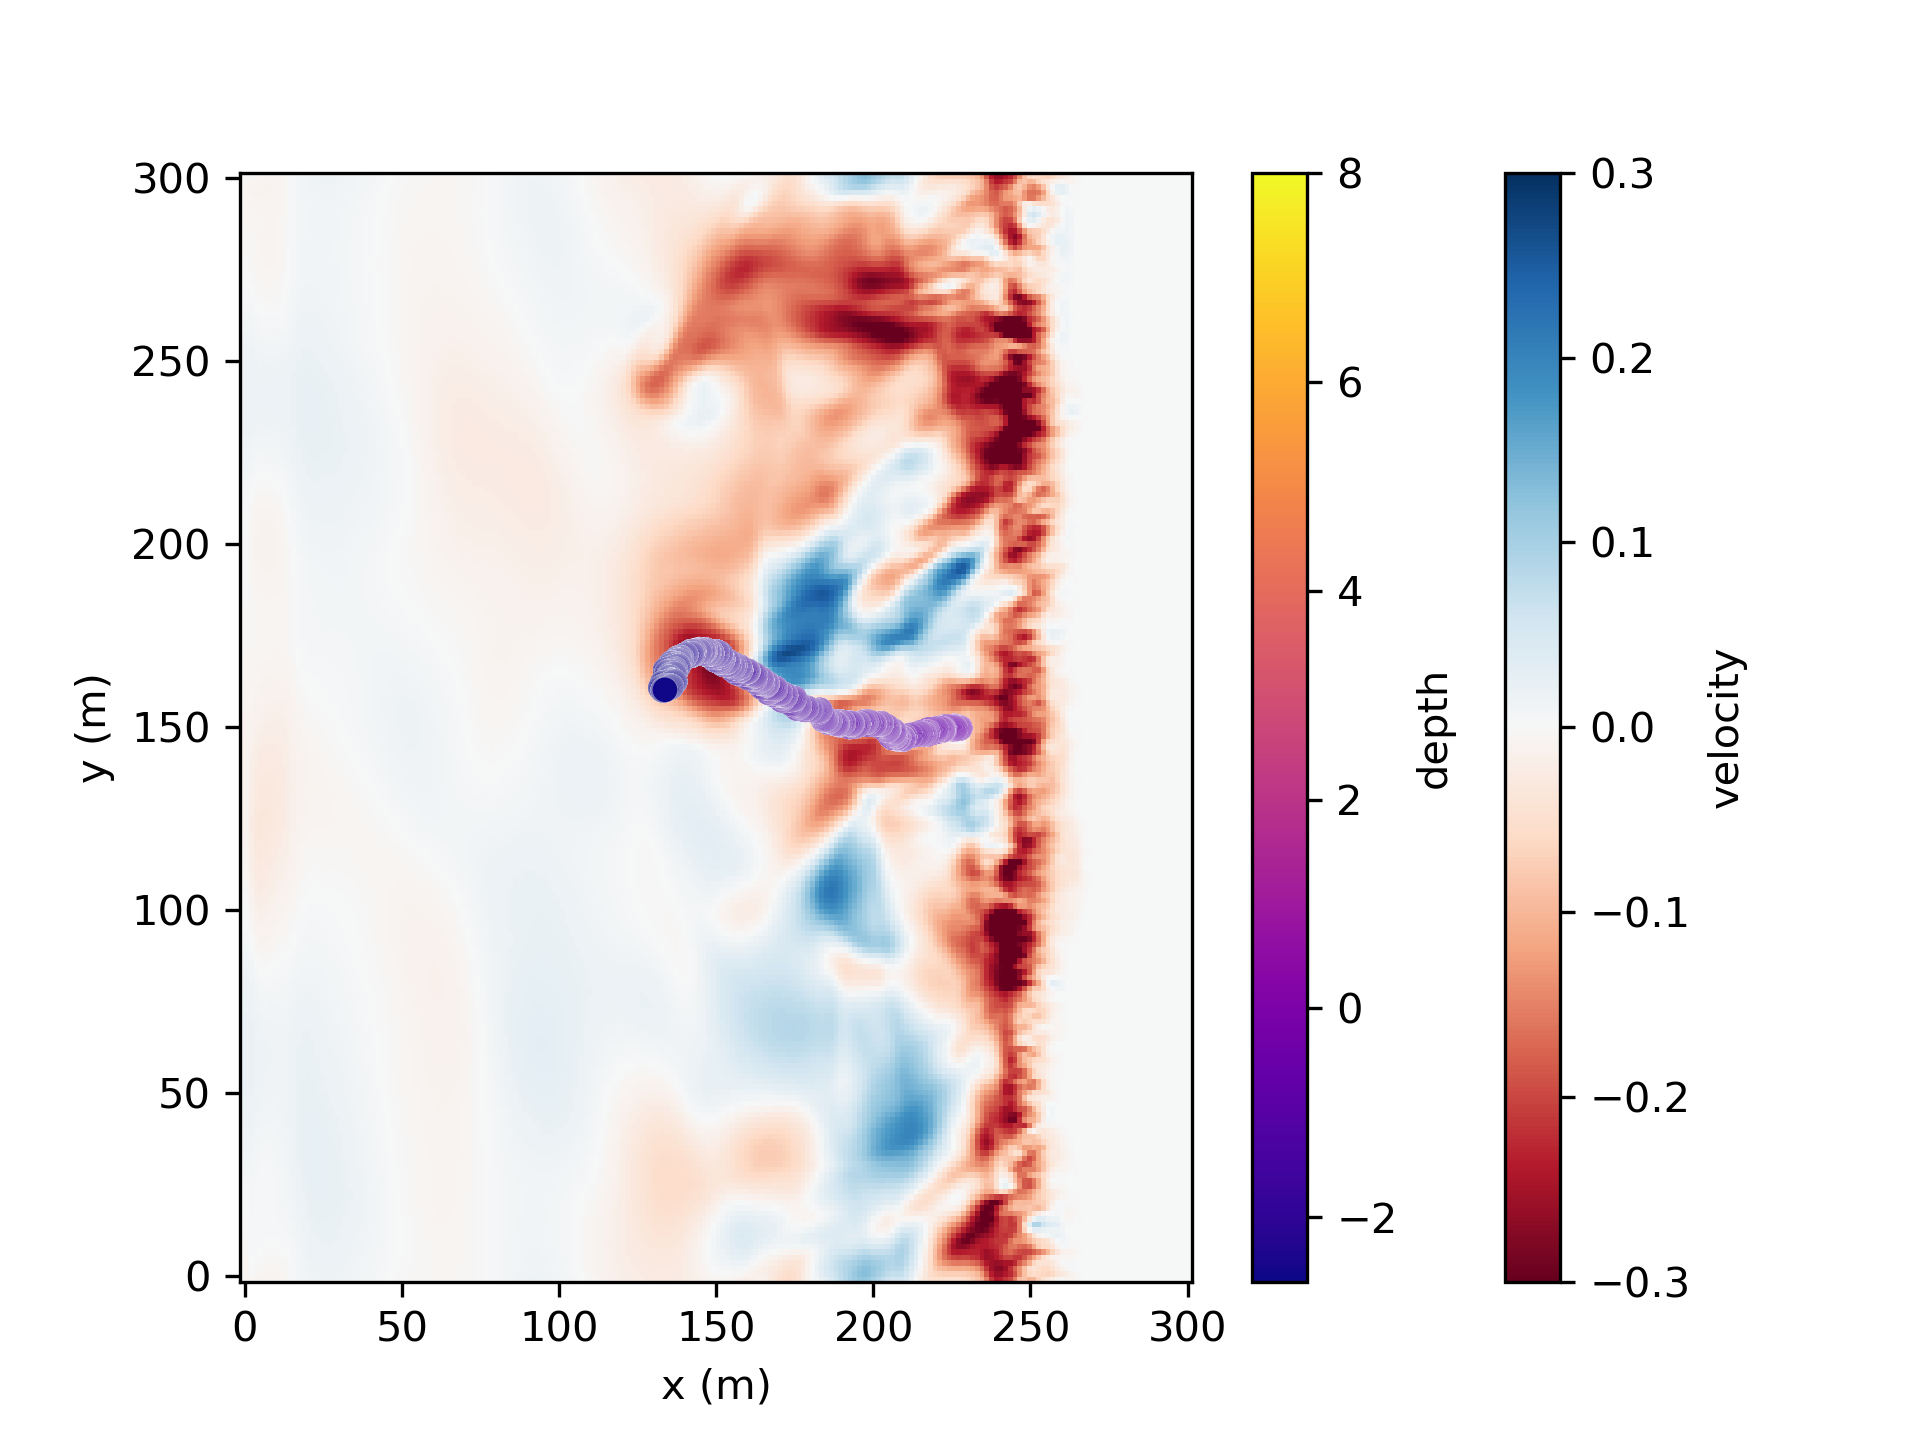
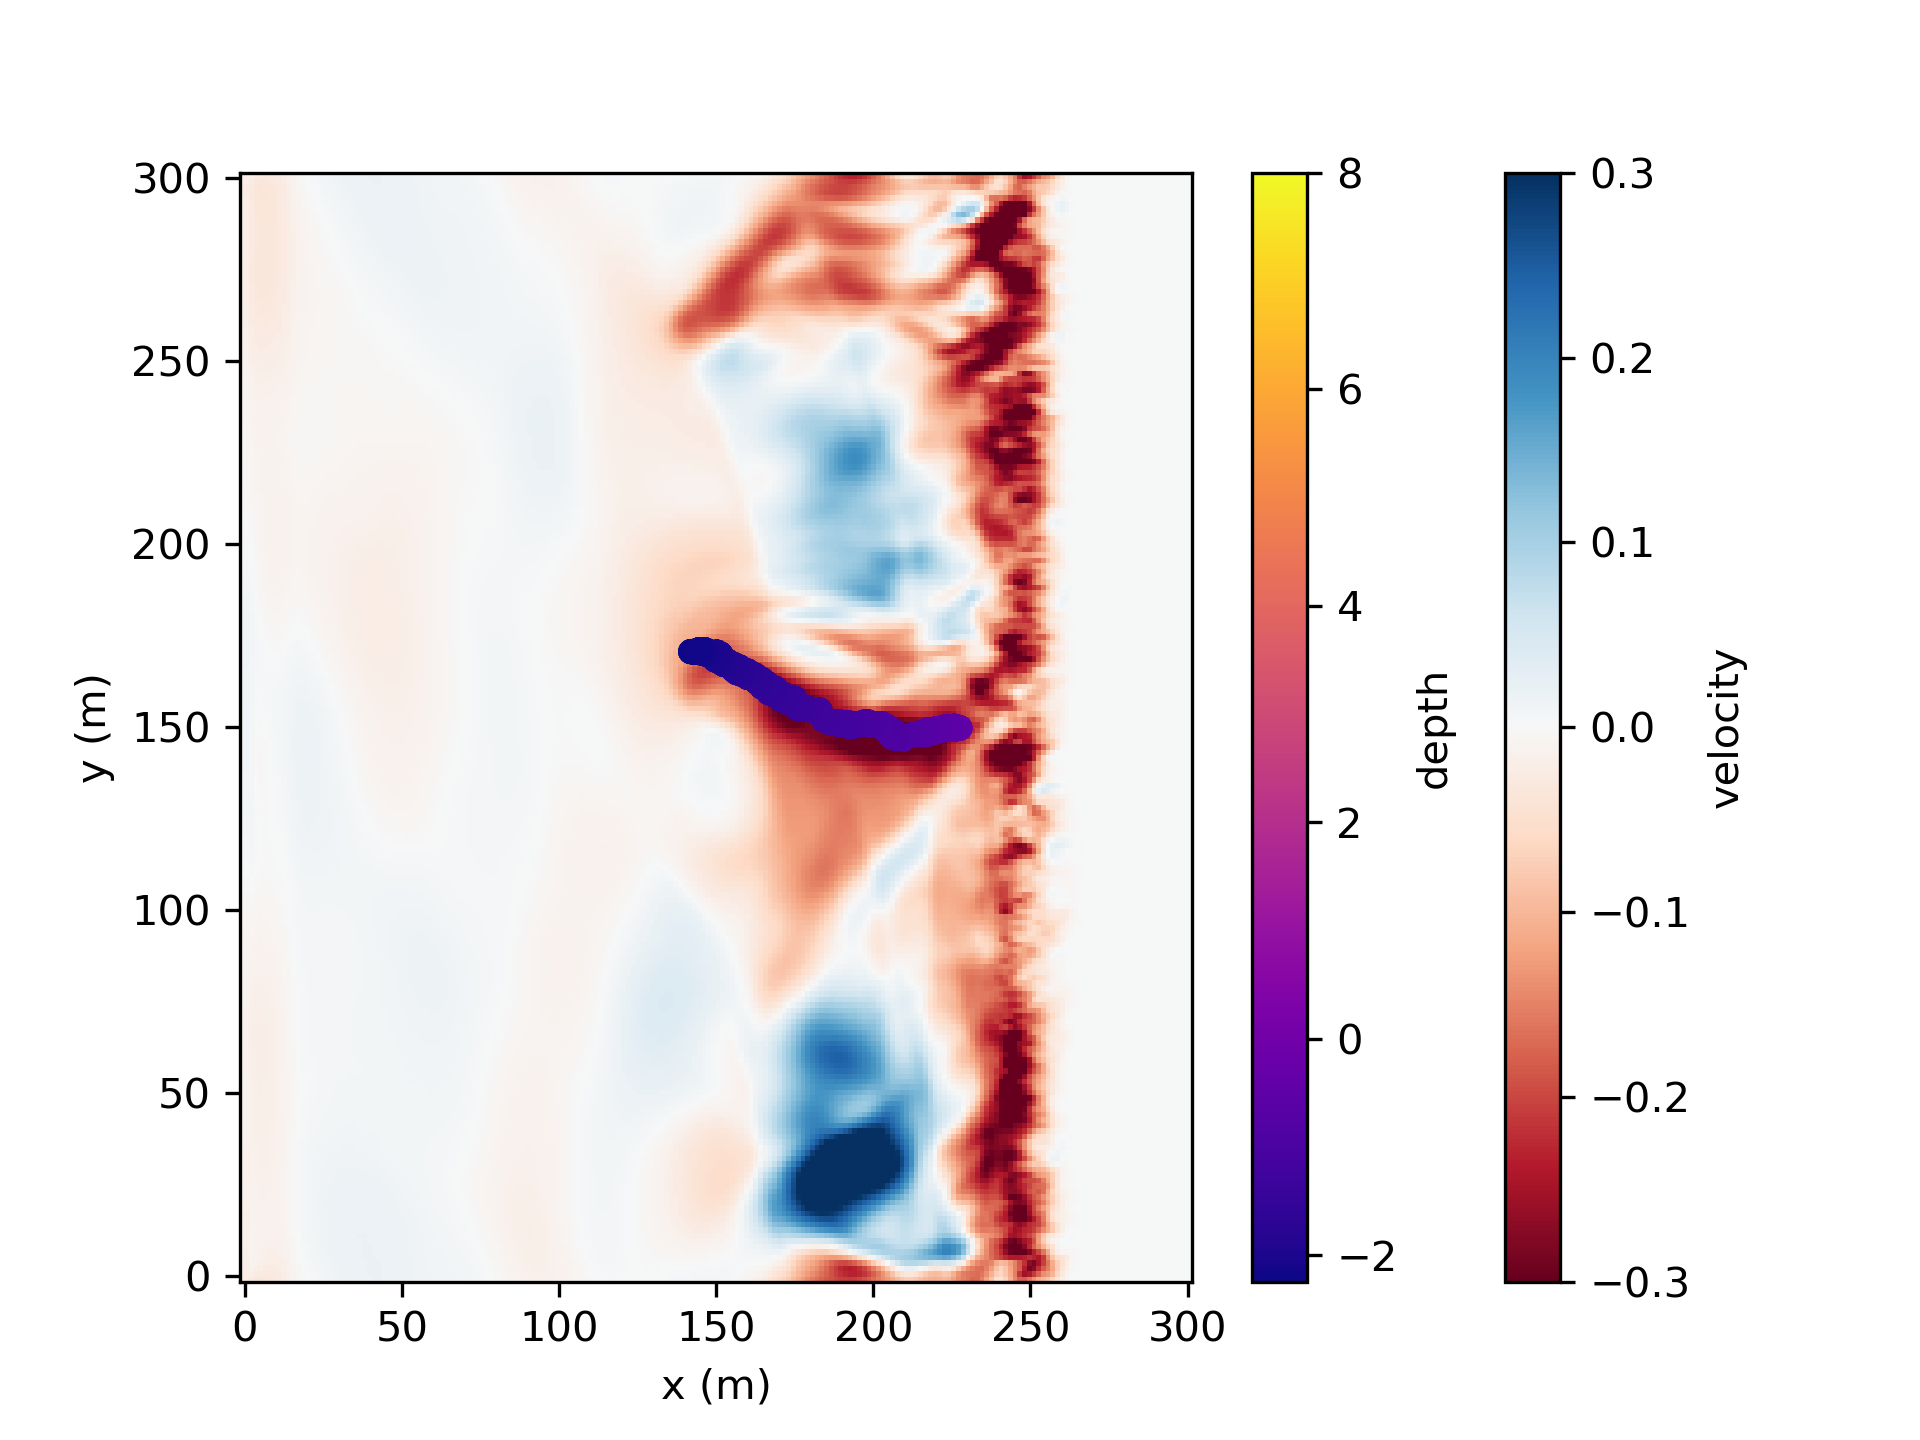
update 02

diff --git a/02-onlineparticletracking/online_particle.py b/02-onlineparticletracking/online_particle.py
@@ -1,63 +1,36 @@
+#%%
 from netCDF4 import Dataset
 import matplotlib.pyplot as plt
 import numpy as np
+import sys
+sys.path.append('/Users/simon/Code/Projects/Tools')
+from Diagnostics.grid import u2rho,v2rho # pyright: ignore[reportMissingImports]
+from Diagnostics.spectrum import welch_spectrum_CI,plot_CIbar_loglog # pyright: ignore[reportMissingImports]
 
 #%% Load
-ds = Dataset('./02-onlineparticletracking/rip_avg.nc')
+ds = Dataset('./rip_avg.nc')
 xr = ds.variables['x_rho'][0,:]
+dx = xr[1]-xr[0]
 yr = ds.variables['y_rho'][:,0]
 u = ds.variables['u'][-1,-1,:,:]
 u = u2rho(u)
 ds.close()
 
-ds = Dataset('./02-onlineparticletracking/floats.nc')
+ds = Dataset('./floats.nc')
 Xgrid=ds.variables['Xgrid'][:]
 Ygrid=ds.variables['Ygrid'][:]
 depth=ds.variables['depth'][:]
 ds.close()
 
-
 #%% Plot
 plt.figure(dpi=300)
 pa = plt.pcolor(xr,yr,u,cmap='RdBu',vmin=-0.3,vmax=0.3)
 cba = plt.colorbar(pa)
-
-dx=1.5
-pb = plt.scatter(Xgrid*dx,Ygrid*dx,c=depth, cmap="plasma",linewidth=0.05, edgecolor='w')
+pb = plt.scatter(Xgrid*dx,Ygrid*dx,c=depth, cmap="plasma",linewidth=0.05, edgecolor='None')
 cbb = plt.colorbar(pb)
-
 cba.set_label('velocity')
 cbb.set_label('depth')
 plt.xlabel('x (m)')
 plt.ylabel('y (m)')
-plt.savefig('./02-onlineparticletracking/online_particle.png')
+plt.savefig('./online_particle.png')
 plt.show()
-
-
-#%% Tools
-def u2rho(var_u):
-    if len(var_u.shape)==4:
-        [T,N,Mp,L]=var_u.shape
-        Lp=L+1
-        Lm=L-1
-        var_rho=np.zeros((T,N,Mp,Lp))
-        var_rho[:,:,:,1:L-1]=0.5*(var_u[:,:,:,0:Lm-1]+var_u[:,:,:,1:L-1])
-        var_rho[:,:,:,0]=var_rho[:,:,:,1]
-        var_rho[:,:,:,L]=var_rho[:,:,:,L-1]
-    elif len(var_u.shape)==3:
-        [N,Mp,L]=var_u.shape
-        Lp=L+1
-        Lm=L-1
-        var_rho=np.zeros((N,Mp,Lp))
-        var_rho[:,:,1:L-1]=0.5*(var_u[:,:,0:Lm-1]+var_u[:,:,1:L-1])
-        var_rho[:,:,0]=var_rho[:,:,1]
-        var_rho[:,:,L]=var_rho[:,:,L-1]
-    elif len(var_u.shape)==2:
-        [Mp,L]=var_u.shape
-        Lp=L+1
-        Lm=L-1
-        var_rho=np.zeros((Mp,Lp))
-        var_rho[:,1:L-1]=0.5*(var_u[:,0:Lm-1]+var_u[:,1:L-1])
-        var_rho[:,0]=var_rho[:,1]
-        var_rho[:,L]=var_rho[:,L-1]
-    return var_rho

diff --git a/01-spectrum_input_file/verify_spectrum.py b/01-spectrum_input_file/verify_spectrum.py
@@ -6,7 +6,7 @@ from scipy import signal
 import pandas as pd
 import sys
 sys.path.append('/Users/simon/Code/Projects/Tools')
-from Diagnostics.spectrum import welch_spectrum_CI,plot_CIbar_loglog
+from Diagnostics.spectrum import welch_spectrum_CI,plot_CIbar_loglog # pyright: ignore[reportMissingImports]
 
 #%% Load
 ds = nc.Dataset('./FLASH_RIP/stations.nc')
